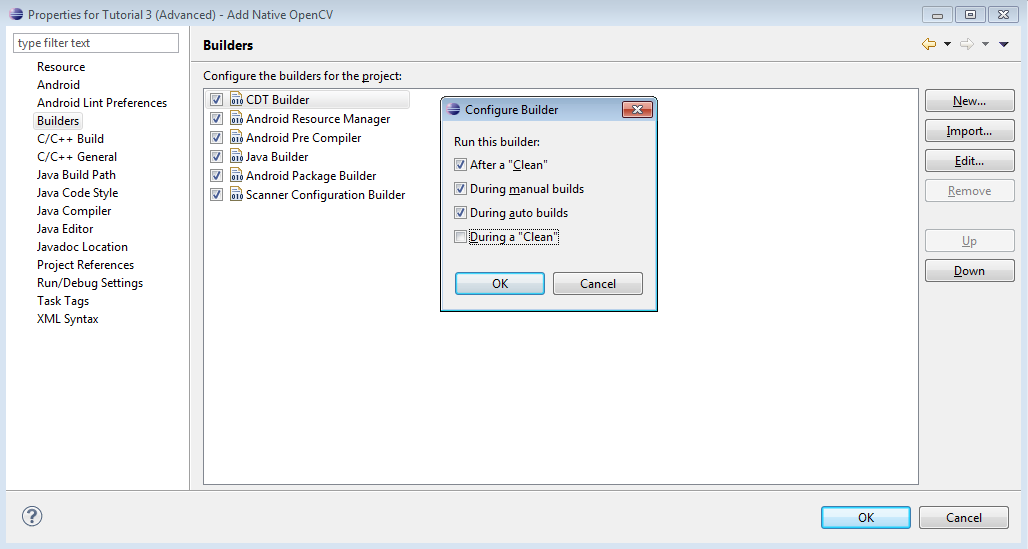
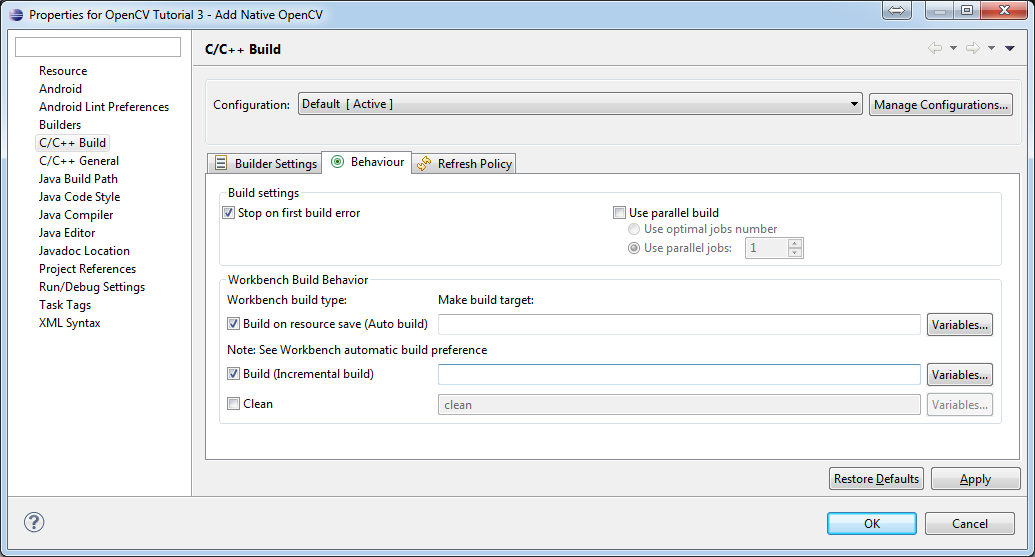
improving android tutorial v2

Changed region(s): [[0.0, 0.0, 1.0, 1.0], [0.2179, 0.7122, 0.2802, 0.7432]]

diff --git a/doc/tutorials/introduction/android_binary_package/android_dev_intro.rst b/doc/tutorials/introduction/android_binary_package/android_dev_intro.rst
@@ -325,17 +325,50 @@ We recommend the approach based on Eclipse :abbr:`CDT(C/C++ Development Tooling)
 
 #. Define the ``NDKROOT`` environment variable containing the path to Android NDK in your system (e.g. ``"X:\\Apps\\android-ndk-r8"`` or ``"/opt/android-ndk-r8"``).
     **On Windows** an environment variable can be set via :guilabel:`My Computer -> Properties -> Advanced -> Environment variables` and restarting Eclipse.
+    On Windows 7 it's also possible to use `setx <http://ss64.com/nt/setx.html>`_ command in a console session.
 
     **On Linux** and **MacOS** an environment variable can be set via appending a ``"export VAR_NAME=VAR_VALUE"`` line to the :file:`"~/.bashrc"` file and logging off and then on.
 
-#. Text 1.
-   
-   Text 2.
+#. Open Eclipse and load the Android app project to configure.
 
+#. Add a "native nature" to the project via Eclipse menu :guilabel:`New -> Other -> C/C++ -> Convert to a C/C++ Project`.
+   
+     .. image:: images/eclipse_cdt_cfg1.png
+        :alt: Configure CDT
+        :align: center
+
+    ` `
+
+     .. image:: images/eclipse_cdt_cfg2.png
+        :alt: Configure CDT
+        :align: center
+
+#. Check the project(s) to convert, the "Project type" = ``Makefile project``, "Toolchains" = ``Other Toolchain``.
+   
+     .. image:: images/eclipse_cdt_cfg3.png
+        :alt: Configure CDT
+        :align: center
+
+#. Open :guilabel:`Project Properties -> C/C++ Build`, unckeck ``Use default build command``, replace "Build command" text from ``"make"`` to 
+     ``"${NDKROOT}/ndk-build.cmd"`` on Windows,
+
+     ``"${NDKROOT}/ndk-build"`` on Linux and MacOS.
+   
      .. image:: images/eclipse_cdt_cfg4.png
         :alt: Configure CDT
         :align: center
 
+#. Move to :guilabel:`Behaviour`  tab and change "Workbench build type" section like shown below:
+   
+     .. image:: images/eclipse_cdt_cfg5.png
+        :alt: Configure CDT
+        :align: center
+
+#. Press :guilabel:`OK`  and make sure the ``ndk-build`` is successfully invoked when building the project.
+   
+     .. image:: images/eclipse_cdt_cfg6.png
+        :alt: Configure CDT
+        :align: center
 
 Debugging and Testing
 =====================